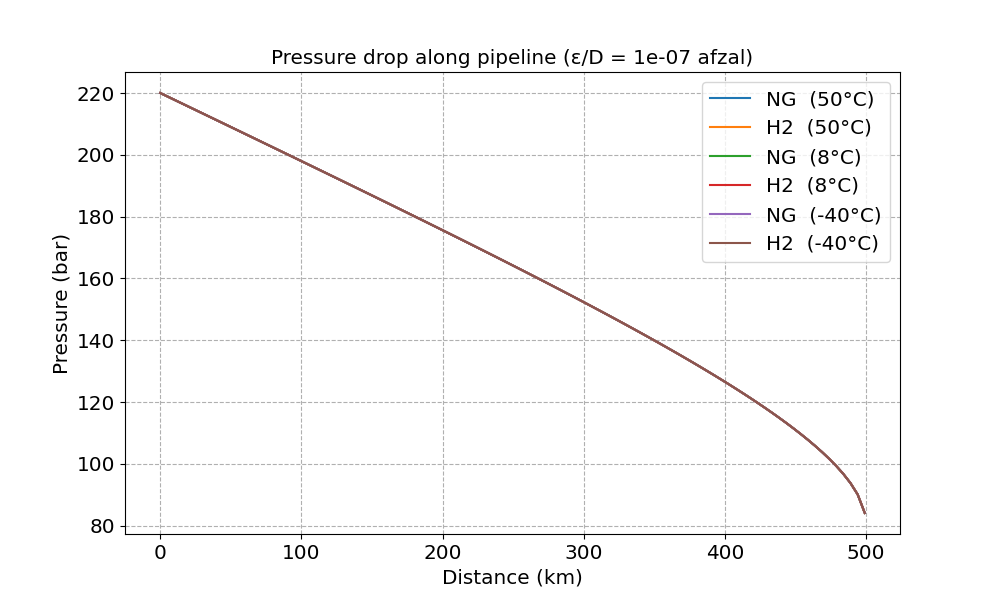
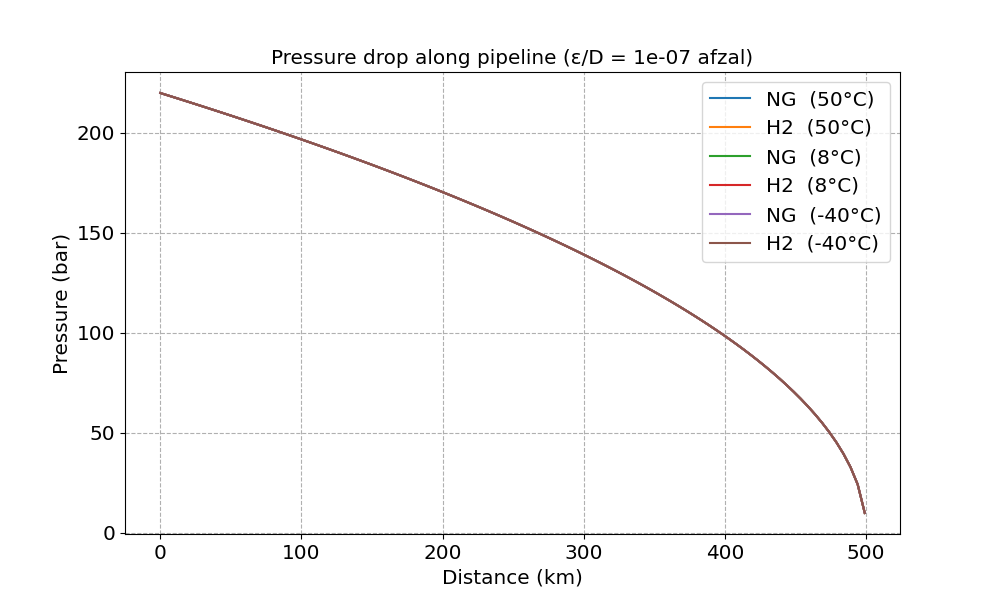
use scipy numerical integrator, works.

diff --git a/moody.py b/moody.py
@@ -9,6 +9,8 @@ import pyfrac_yj as pf
 import warnings
 
 from scipy.interpolate import interp1d
+from scipy.integrate import quad
+
 from peng_utils import memoize
 from peng import get_v_ratio, get_Δp_ratio_br, get_ϱ_ratio, get_μ_ratio, get_viscosity, Atm, T273, set_mix_rule
 
@@ -465,6 +467,20 @@ def d_pint(x, g, P0, f, rr):
 def int_d_pint(L, g, P0, f, rr):
     """Given that we have only a pressure gradient, calculate the pressure drop
     as an integral of that"""
+    original = pint(L, g, P0, f, rr)
+
+
+    # I_quad, est_err_quad =  quad(d_pint, 0, np.pi)
+    # print(I_quad)
+    # err_quad = 2 - I_quad
+    # print(est_err_quad, err_quad)
+    
+    p, est_err_quad = quad(d_pint, 2, L, args=(g, P0, f, rr))
+    p = p + P0
+    
+    print(f"{int(L/1000):5} km {p:8.3f} bar  {original:8.3f} bar     {p-original:9.3f}")
+    return p
+    
     p = P0
     x_step = L/1000
     l_range =np.arange(2, L, x_step)
